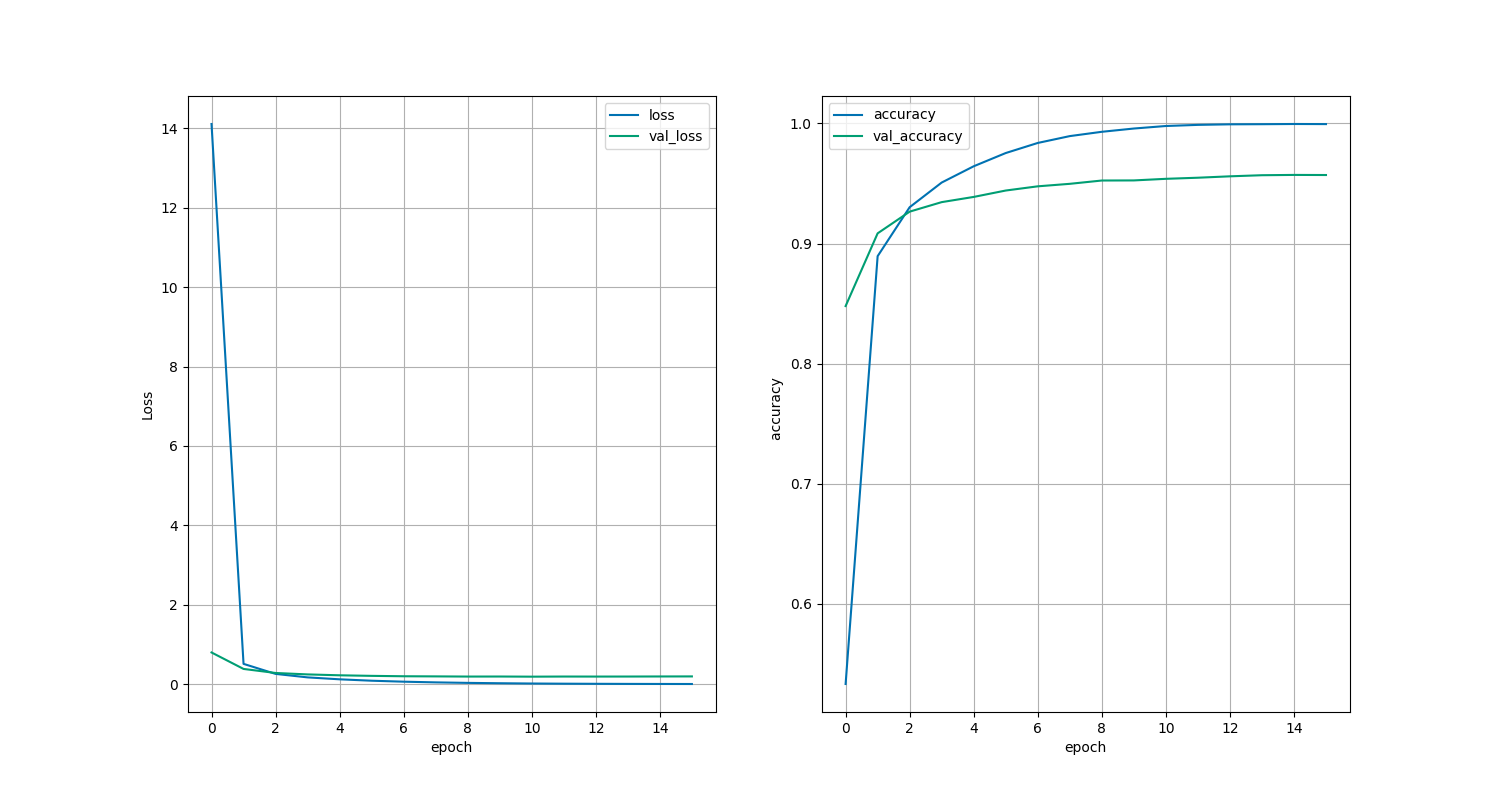
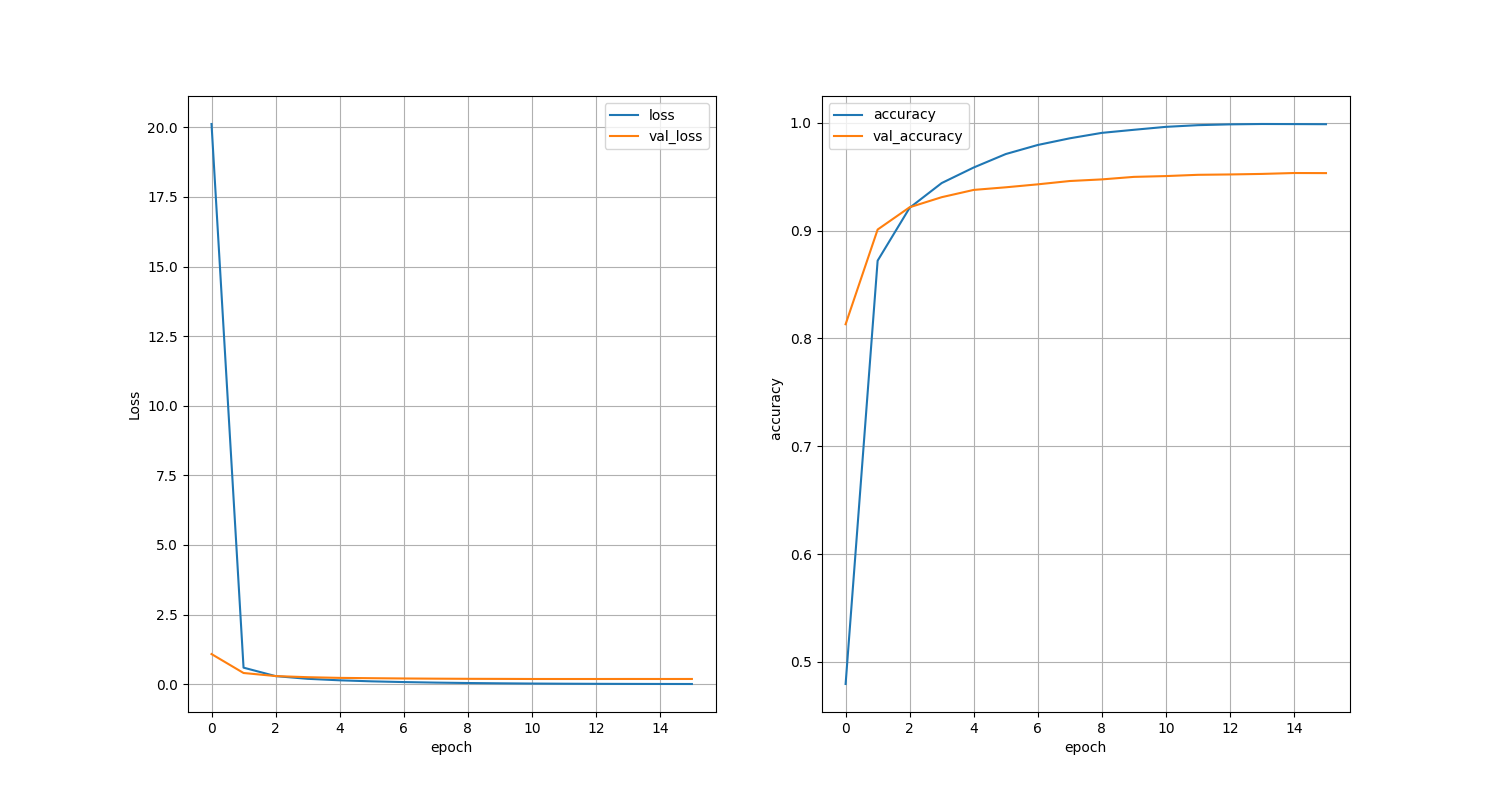
made changes to plots

diff --git a/Statistical_Learning/Machine_learning/Deep_learning/Classification/neural.py b/Statistical_Learning/Machine_learning/Deep_learning/Classification/neural.py
@@ -1,7 +1,7 @@
 import numpy as np
 import matplotlib.pyplot as plt
 import seaborn as sns
-plt.style.use(['seaborn-v0_8-colorblind'])
+# plt.style.use(['seaborn-v0_8-colorblind'])
 
 import pandas as pd
 
@@ -15,7 +15,7 @@ from sklearn.model_selection import train_test_split
 
 class Neural:
 
-    def __init__(self, dataset, activation):
+    def __init__(self, dataset, activation, model_name):
         """
         __init__ initializing function
 
@@ -25,6 +25,7 @@ class Neural:
             dataset (List): Used Dataset
             activation (String): Name of the activationfunction used
         """        
+        self.model_name = model_name
         self.dataset = dataset
         self.activation = activation
         if self.dataset == "mnist":
@@ -35,7 +36,7 @@ class Neural:
             print("no dataset imported")
             exit()
 
-    def model(self, model_name):
+    def model(self):
         """
         model Descides wich model is used. The model is then trained and a prediction will be made over the test set.
 
@@ -51,7 +52,7 @@ class Neural:
                 - results_df (dataframe): Pandas dataframe with the results of the model (losses and accuracy)
                 - y_pred (array): array with the predictions of the testset 
         """
-        if model_name == 'small':
+        if self.model_name == 'small':
 
             self.model = keras.Sequential([
                 layers.Flatten(input_shape=(self.X_train.shape[1], self.X_train.shape[2])),
@@ -63,7 +64,7 @@ class Neural:
         ])
 
 
-        elif model_name == 'big':
+        elif self.model_name == 'big':
 
             self.model = keras.Sequential([
                 layers.Flatten(input_shape=(self.X_train.shape[1], self.X_train.shape[2])),
@@ -81,7 +82,7 @@ class Neural:
         ])
 
 
-        elif model_name == 'drop':
+        elif self.model_name == 'drop':
             self.model = keras.Sequential([
                 layers.Flatten(input_shape=(self.X_train.shape[1], self.X_train.shape[2])),
                 layers.Dropout(0.3),
@@ -162,7 +163,7 @@ class Neural:
         y = activation_layer(x)
 
 
-        fig, ax = plt.subplots()
+        fig, ax = plt.subplots(figsize=(15, 10))
         ax.grid(True)
         ax.plot(x, y)
         
@@ -180,8 +181,49 @@ class Neural:
         ax[1].set_xlabel('epoch')
         ax[1].set_ylabel('accuracy  ')
 
+        # Zoom in on losses
+
+        fig, ax = plt.subplots()
+
+        if self.model_name == "small" or self.model_name=='drop':
+            self.results_df.loc[5:, ['loss', 'val_loss']].plot(ax=ax, grid=True)
+
+            ax.set_xlabel('epoch')
+            ax.set_ylabel('Loss')
+
+        elif self.model_name == "big":
+            self.results_df.loc[2:, ['loss', 'val_loss']].plot(ax=ax, grid=True)
+
+            ax.set_xlabel('epoch')
+            ax.set_ylabel('Loss')
+
+
 
         # confusion matrix
+
+        if self.activation == 'linear':
+            y_train_p = self.model.predict(self.X_train)
+            y_train_p = [np.argmax(i) for i in y_train_p] 
+            y_valid_p = self.model.predict(self.X_valid)
+            y_valid_p = [np.argmax(i) for i in y_valid_p]
+            cm_train = confusion_matrix(self.y_train, y_train_p)
+            cm_valid = confusion_matrix(self.y_valid, y_valid_p)
+
+            fig, ax = plt.subplots()
+
+            sns.heatmap(cm_train, annot=True, fmt='d', ax = ax)
+
+            ax.set_xlabel('Actual')
+            ax.set_ylabel('Predicted')
+            ax.set_xlabel('Actual')
+            ax.set_ylabel('Predicted')
+
+            fig, ax = plt.subplots()
+            sns.heatmap(cm_valid, annot=True, fmt='d', ax = ax)
+            ax.set_xlabel('Actual')
+            ax.set_ylabel('Predicted')
+            ax.set_xlabel('Actual')
+            ax.set_ylabel('Predicted')
 
         cm = confusion_matrix(self.y_test, self.y_pred)
 

diff --git a/Statistical_Learning/Machine_learning/Deep_learning/Classification/main.py b/Statistical_Learning/Machine_learning/Deep_learning/Classification/main.py
@@ -4,10 +4,10 @@ import sys
 def main():
     
     # Declaring an object for initialization
-    neural = Neural("mnist", sys.argv[2])
+    neural = Neural("mnist", sys.argv[2], sys.argv[1])
     
     # Training model with results and prediction
-    model_small, results_small, y_pred_small = neural.model(sys.argv[1])
+    model_small, results_small, y_pred_small = neural.model()
 
     # plot the results of the training as well as the first predictions of testing
     neural.plot()
